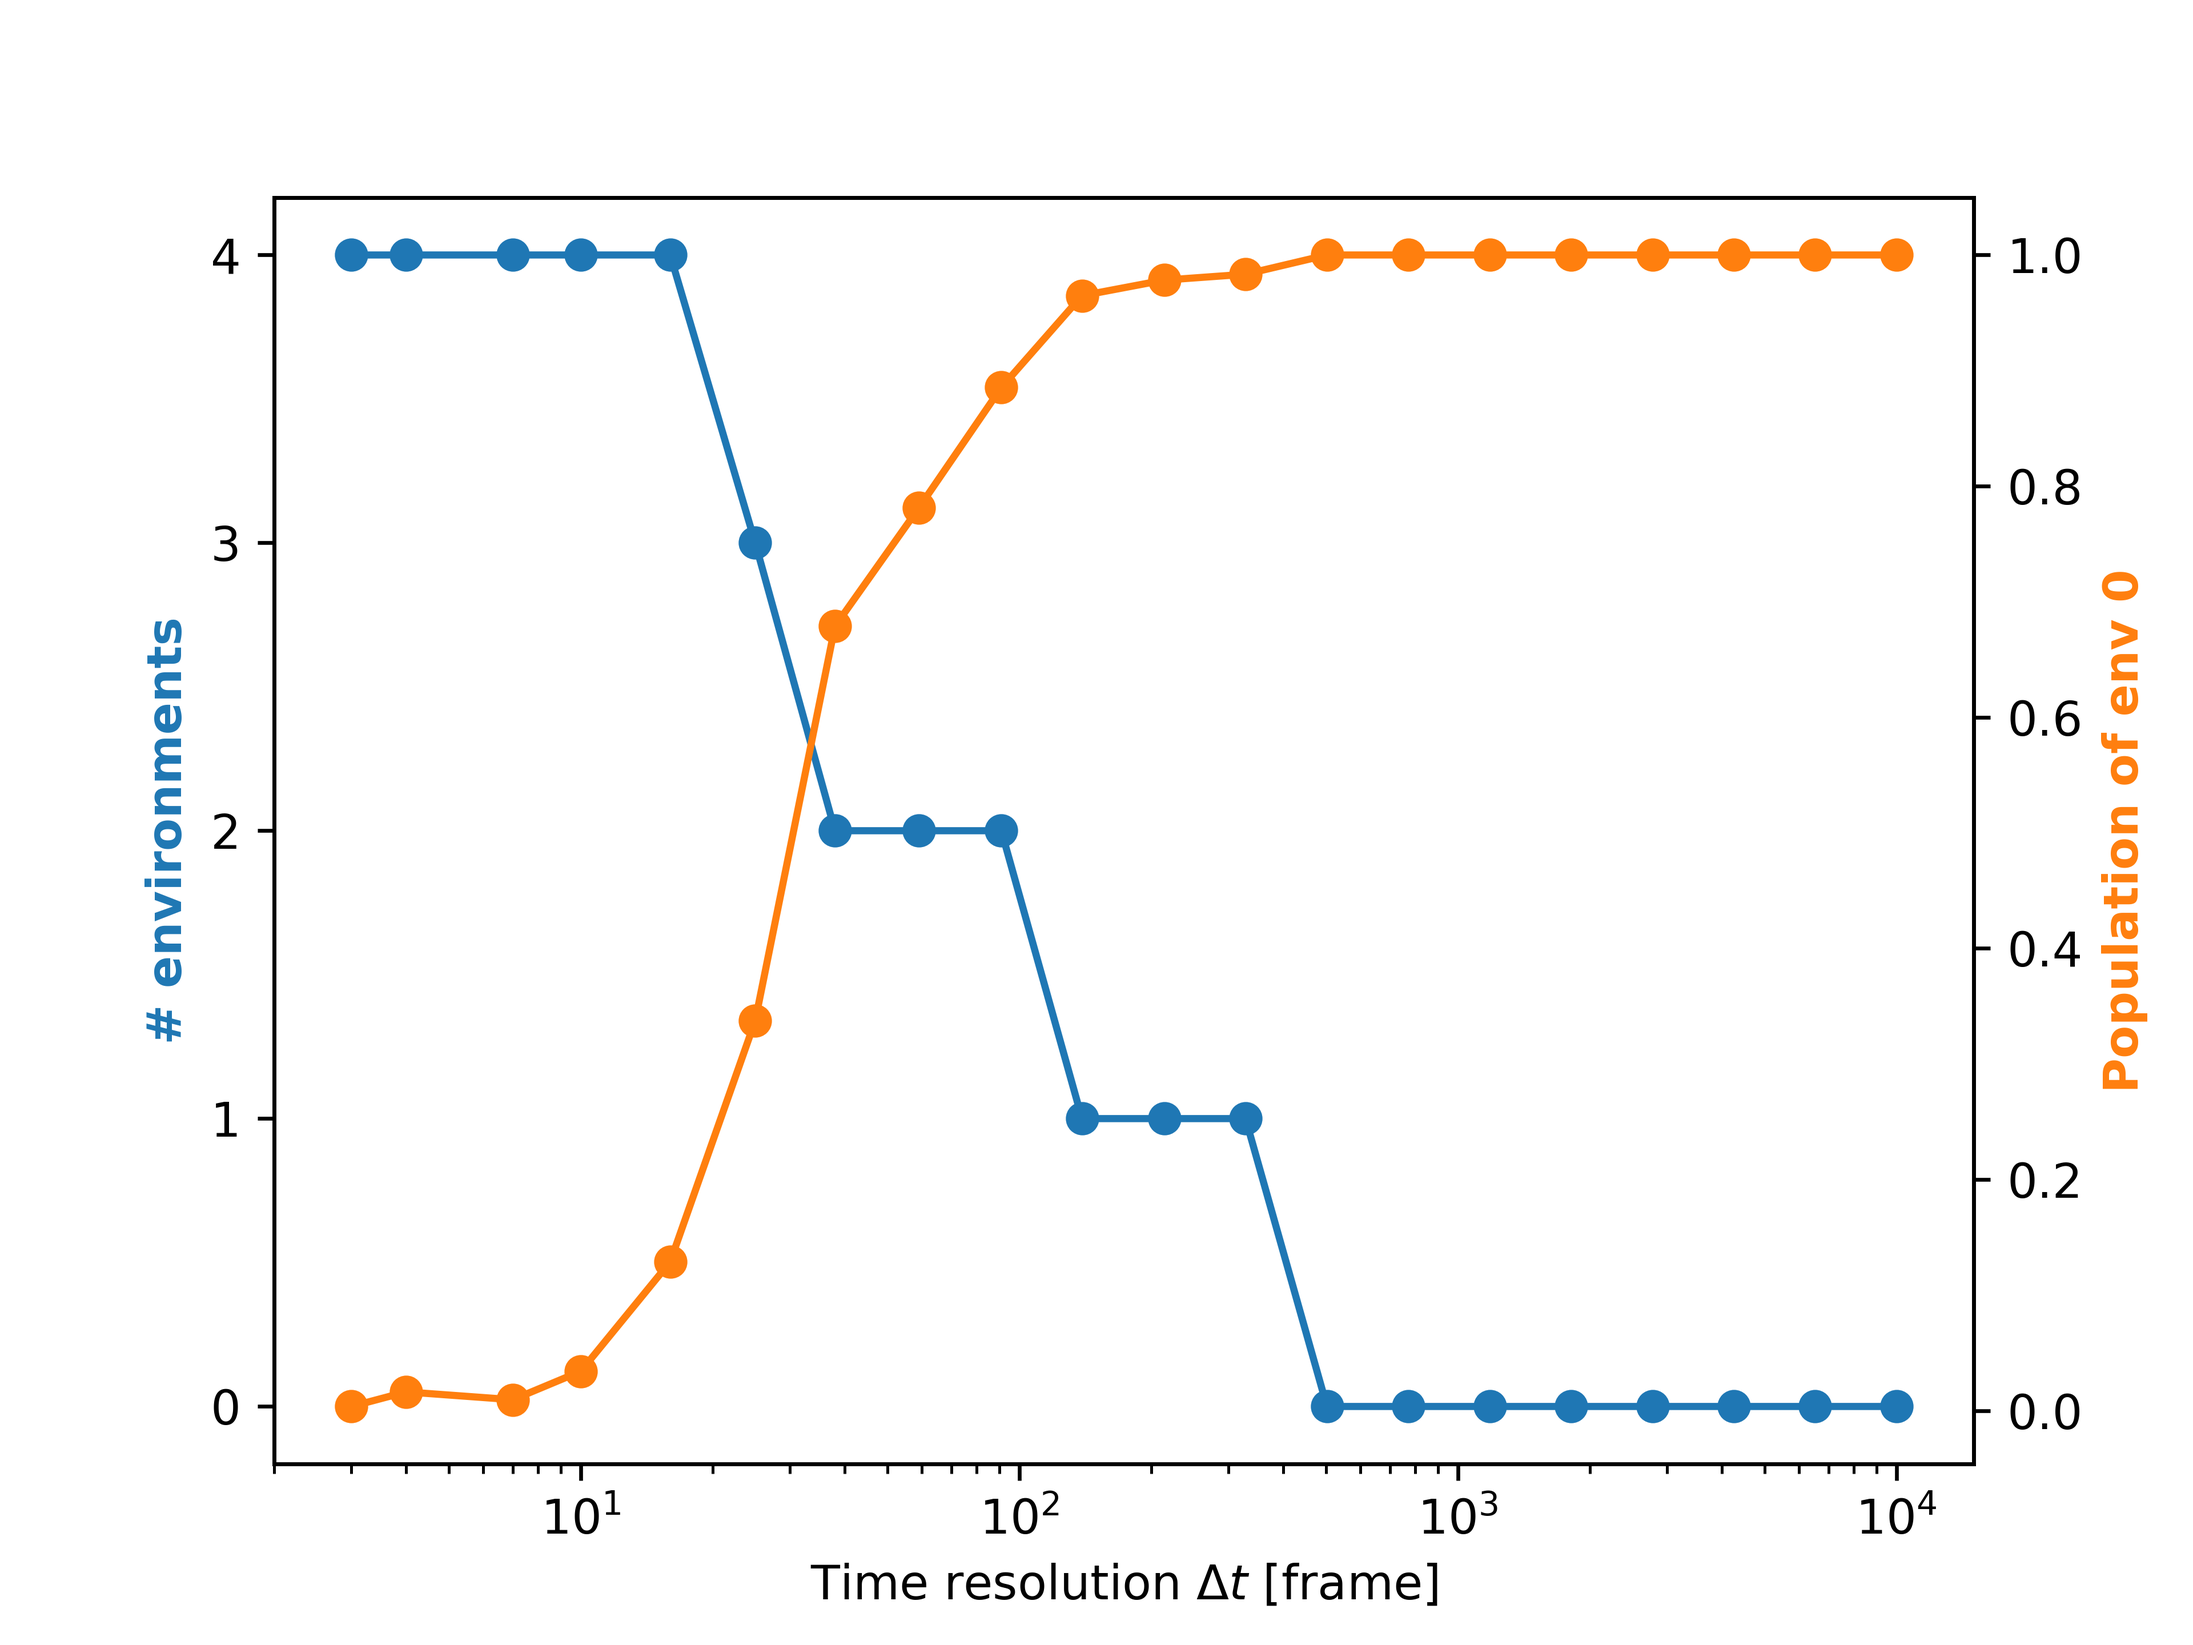
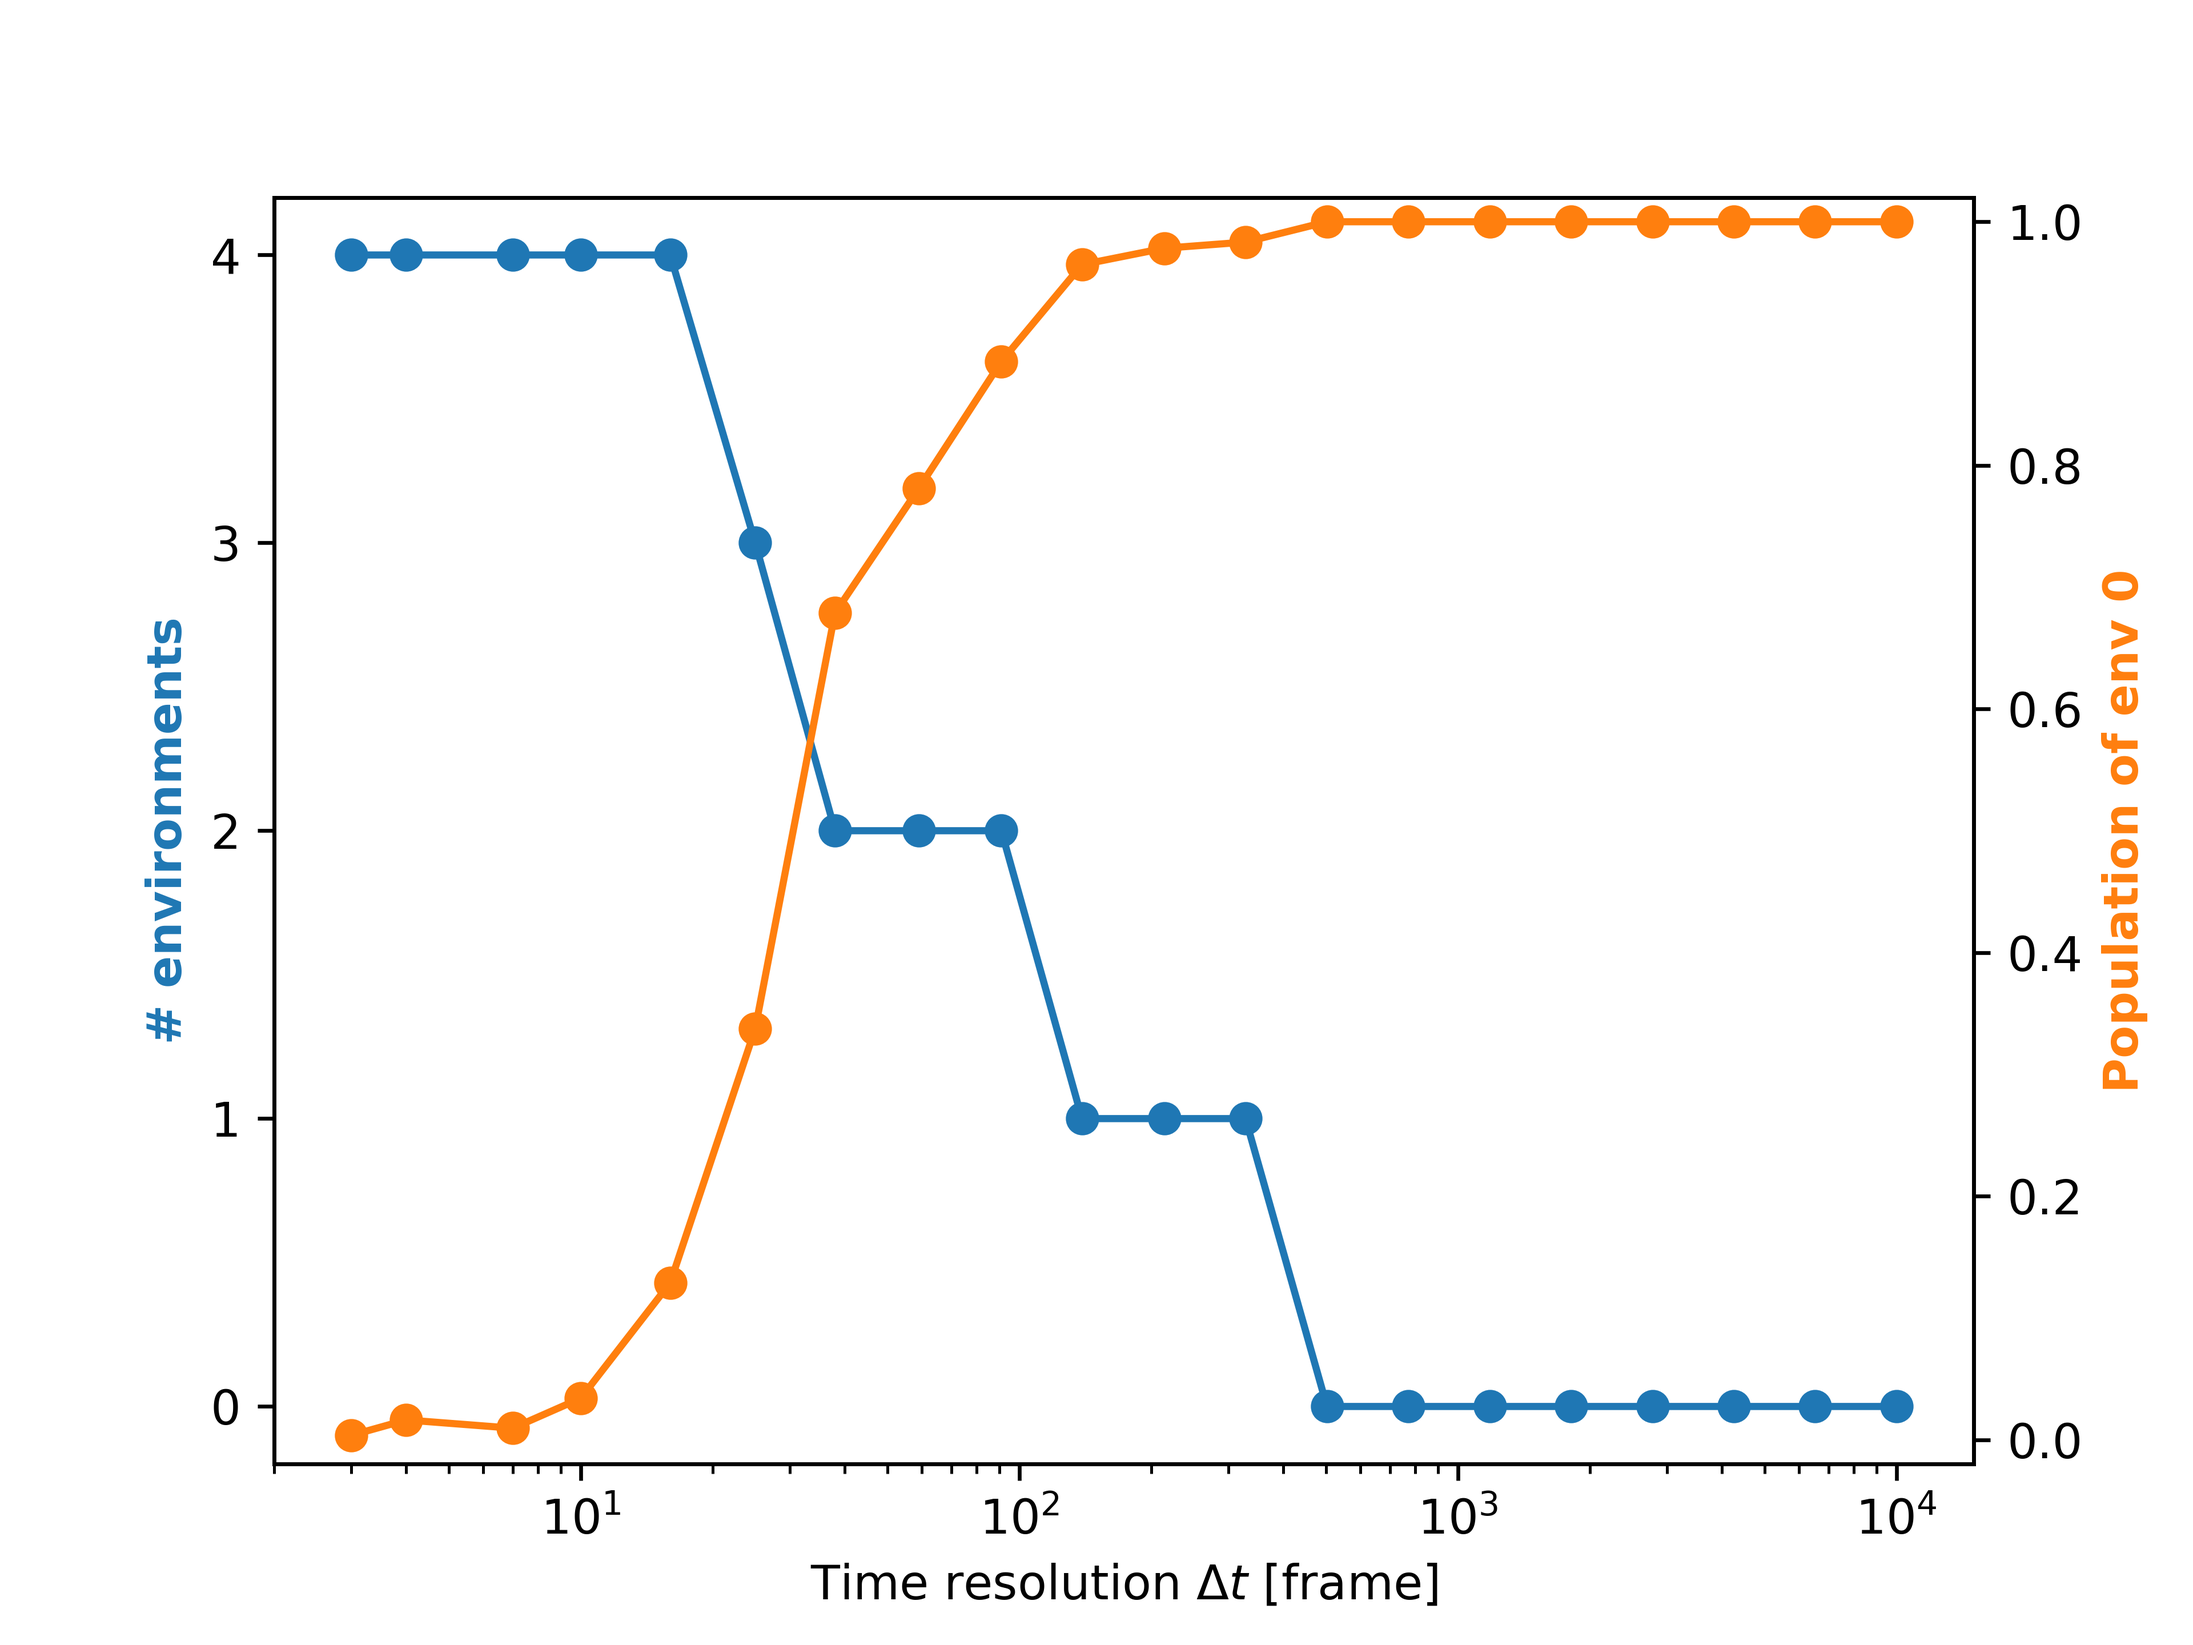
onion-plot improved

diff --git a/src/tropea_clustering/_internal/plot.py b/src/tropea_clustering/_internal/plot.py
@@ -501,10 +501,12 @@ def plot_time_res_analysis(
     axes.set_xlabel(r"Time resolution $\Delta t$ [frame]")
     axes.set_ylabel(r"# environments", weight="bold", c="#1f77b4")
     axes.set_xscale("log")
+    axes.set_ylim(-0.2, np.max(tra[:, 1]) + 0.2)
     axes.yaxis.set_major_locator(MaxNLocator(integer=True))
     axesr = axes.twinx()
     axesr.plot(tra[:, 0], tra[:, 2], marker="o", c="#ff7f0e")
     axesr.set_ylabel("Population of env 0", weight="bold", c="#ff7f0e")
+    axesr.set_ylim(-0.02, 1.02)
     fig.savefig(title, dpi=600)
 
 
